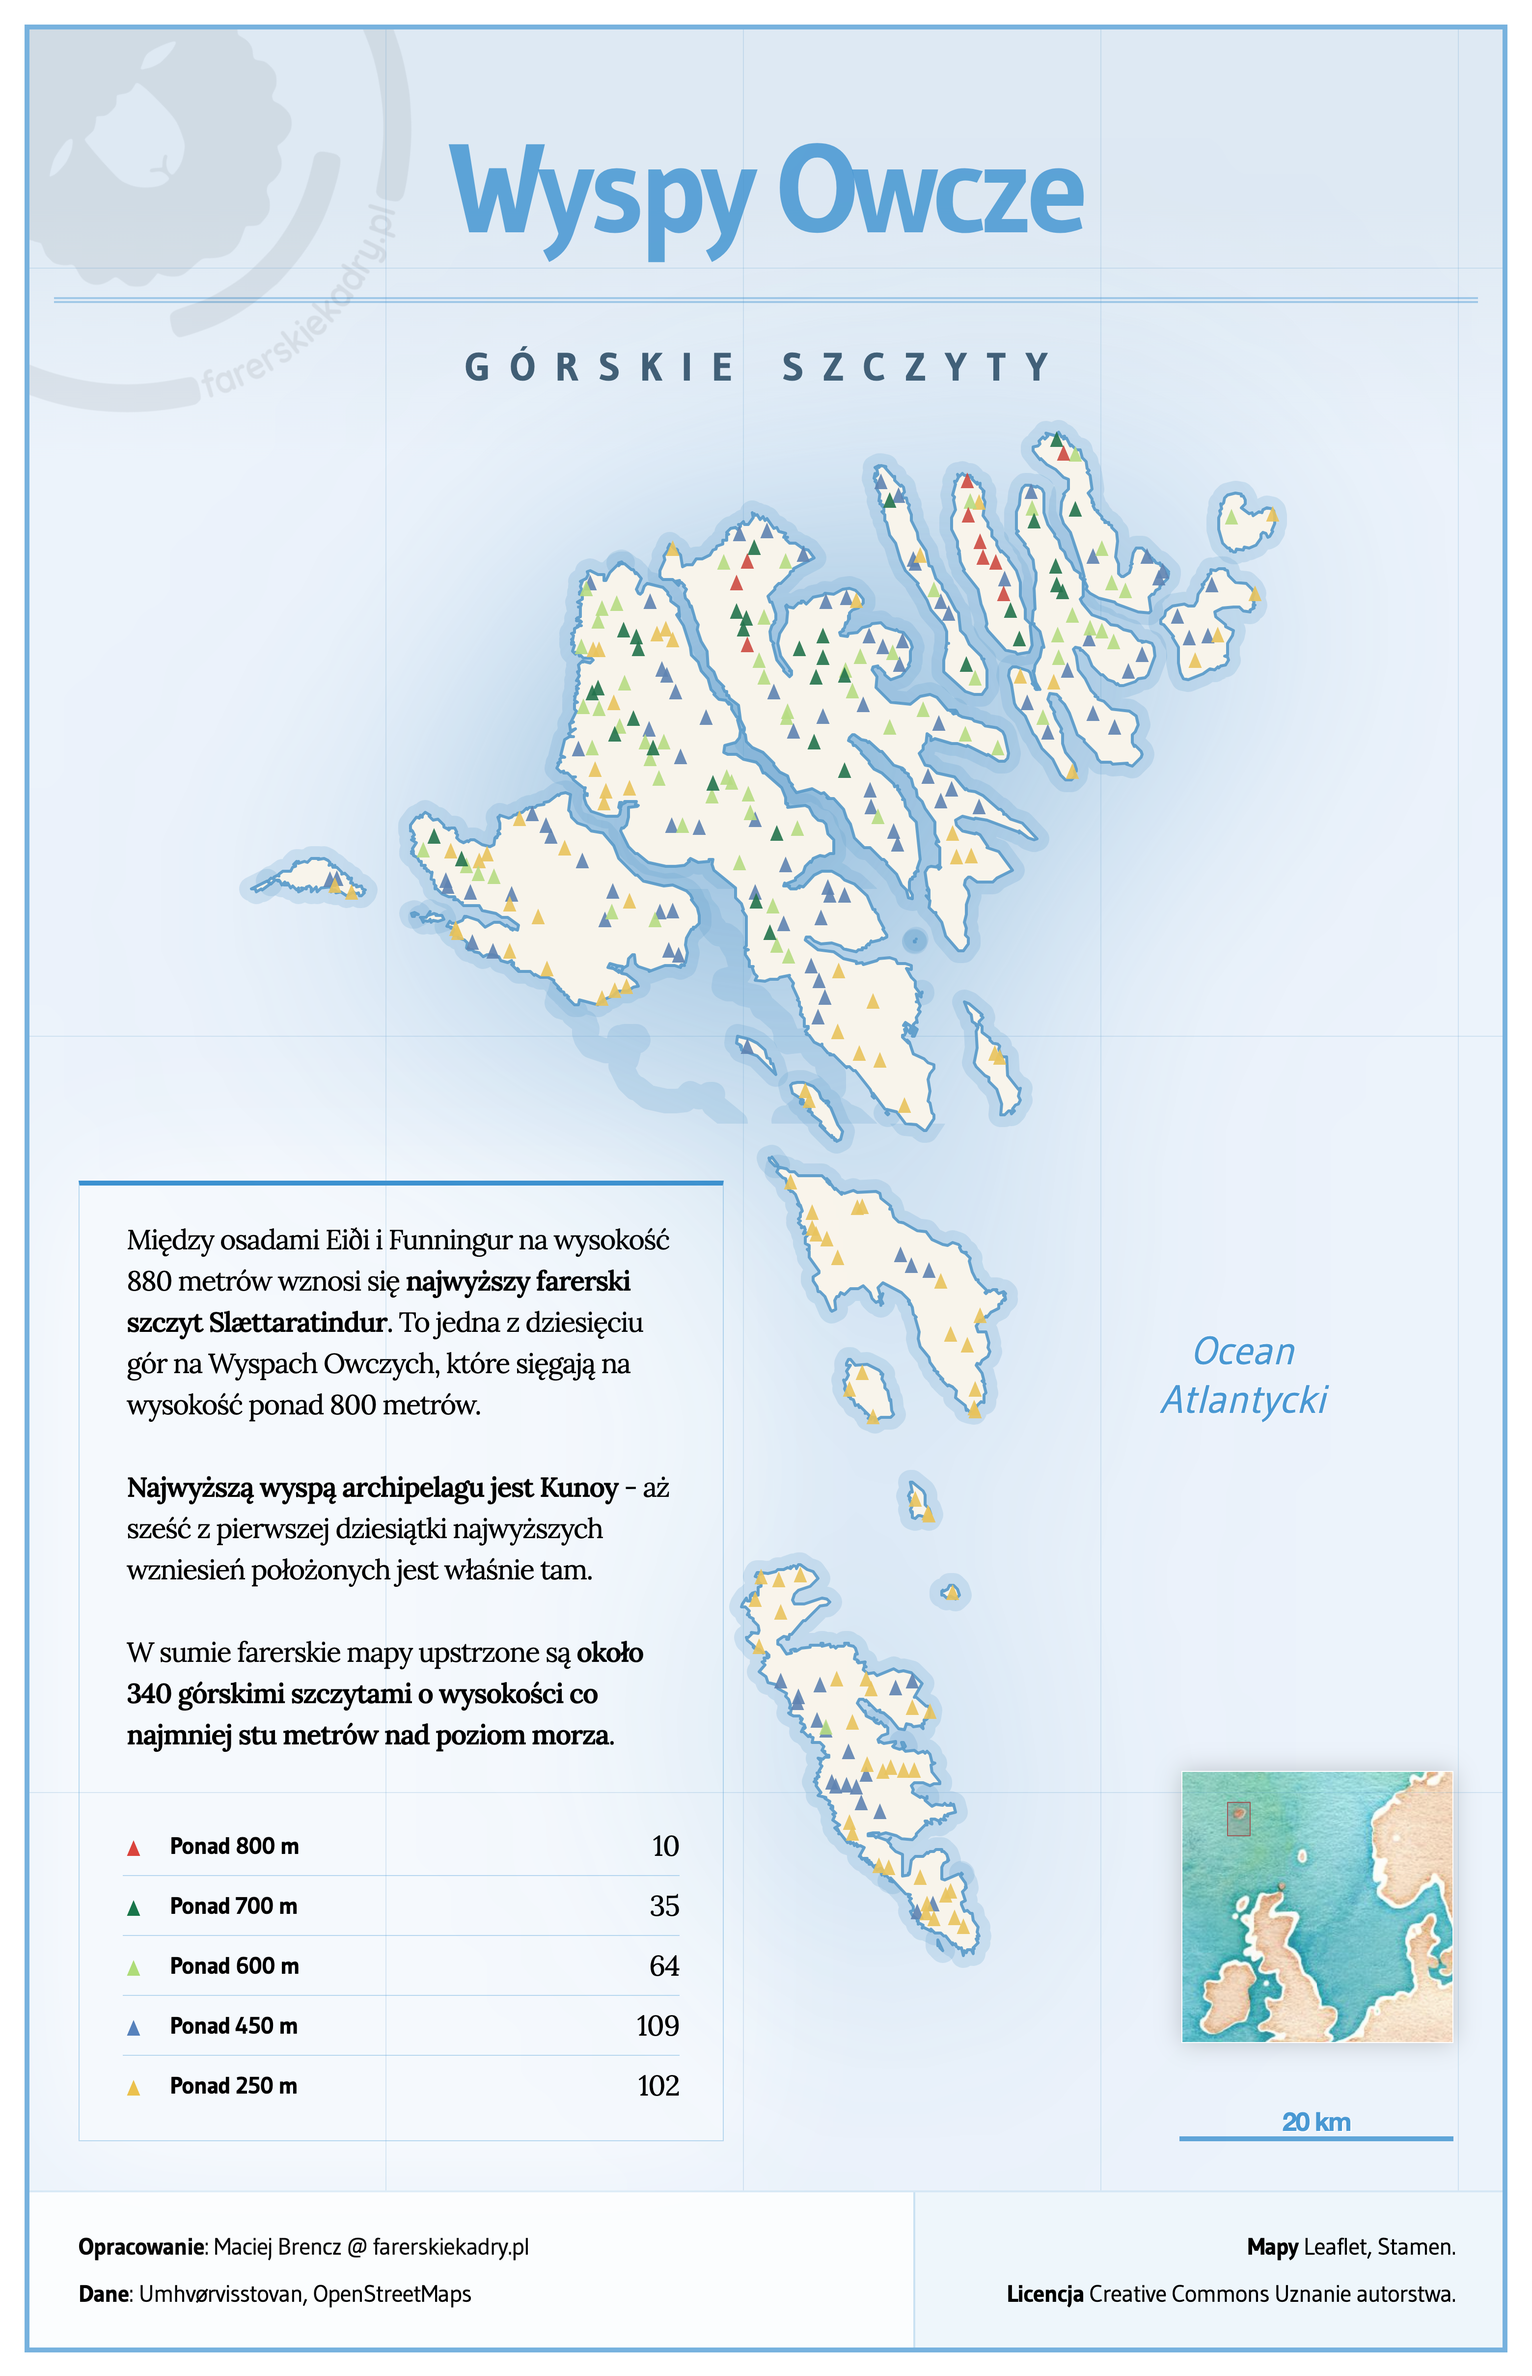
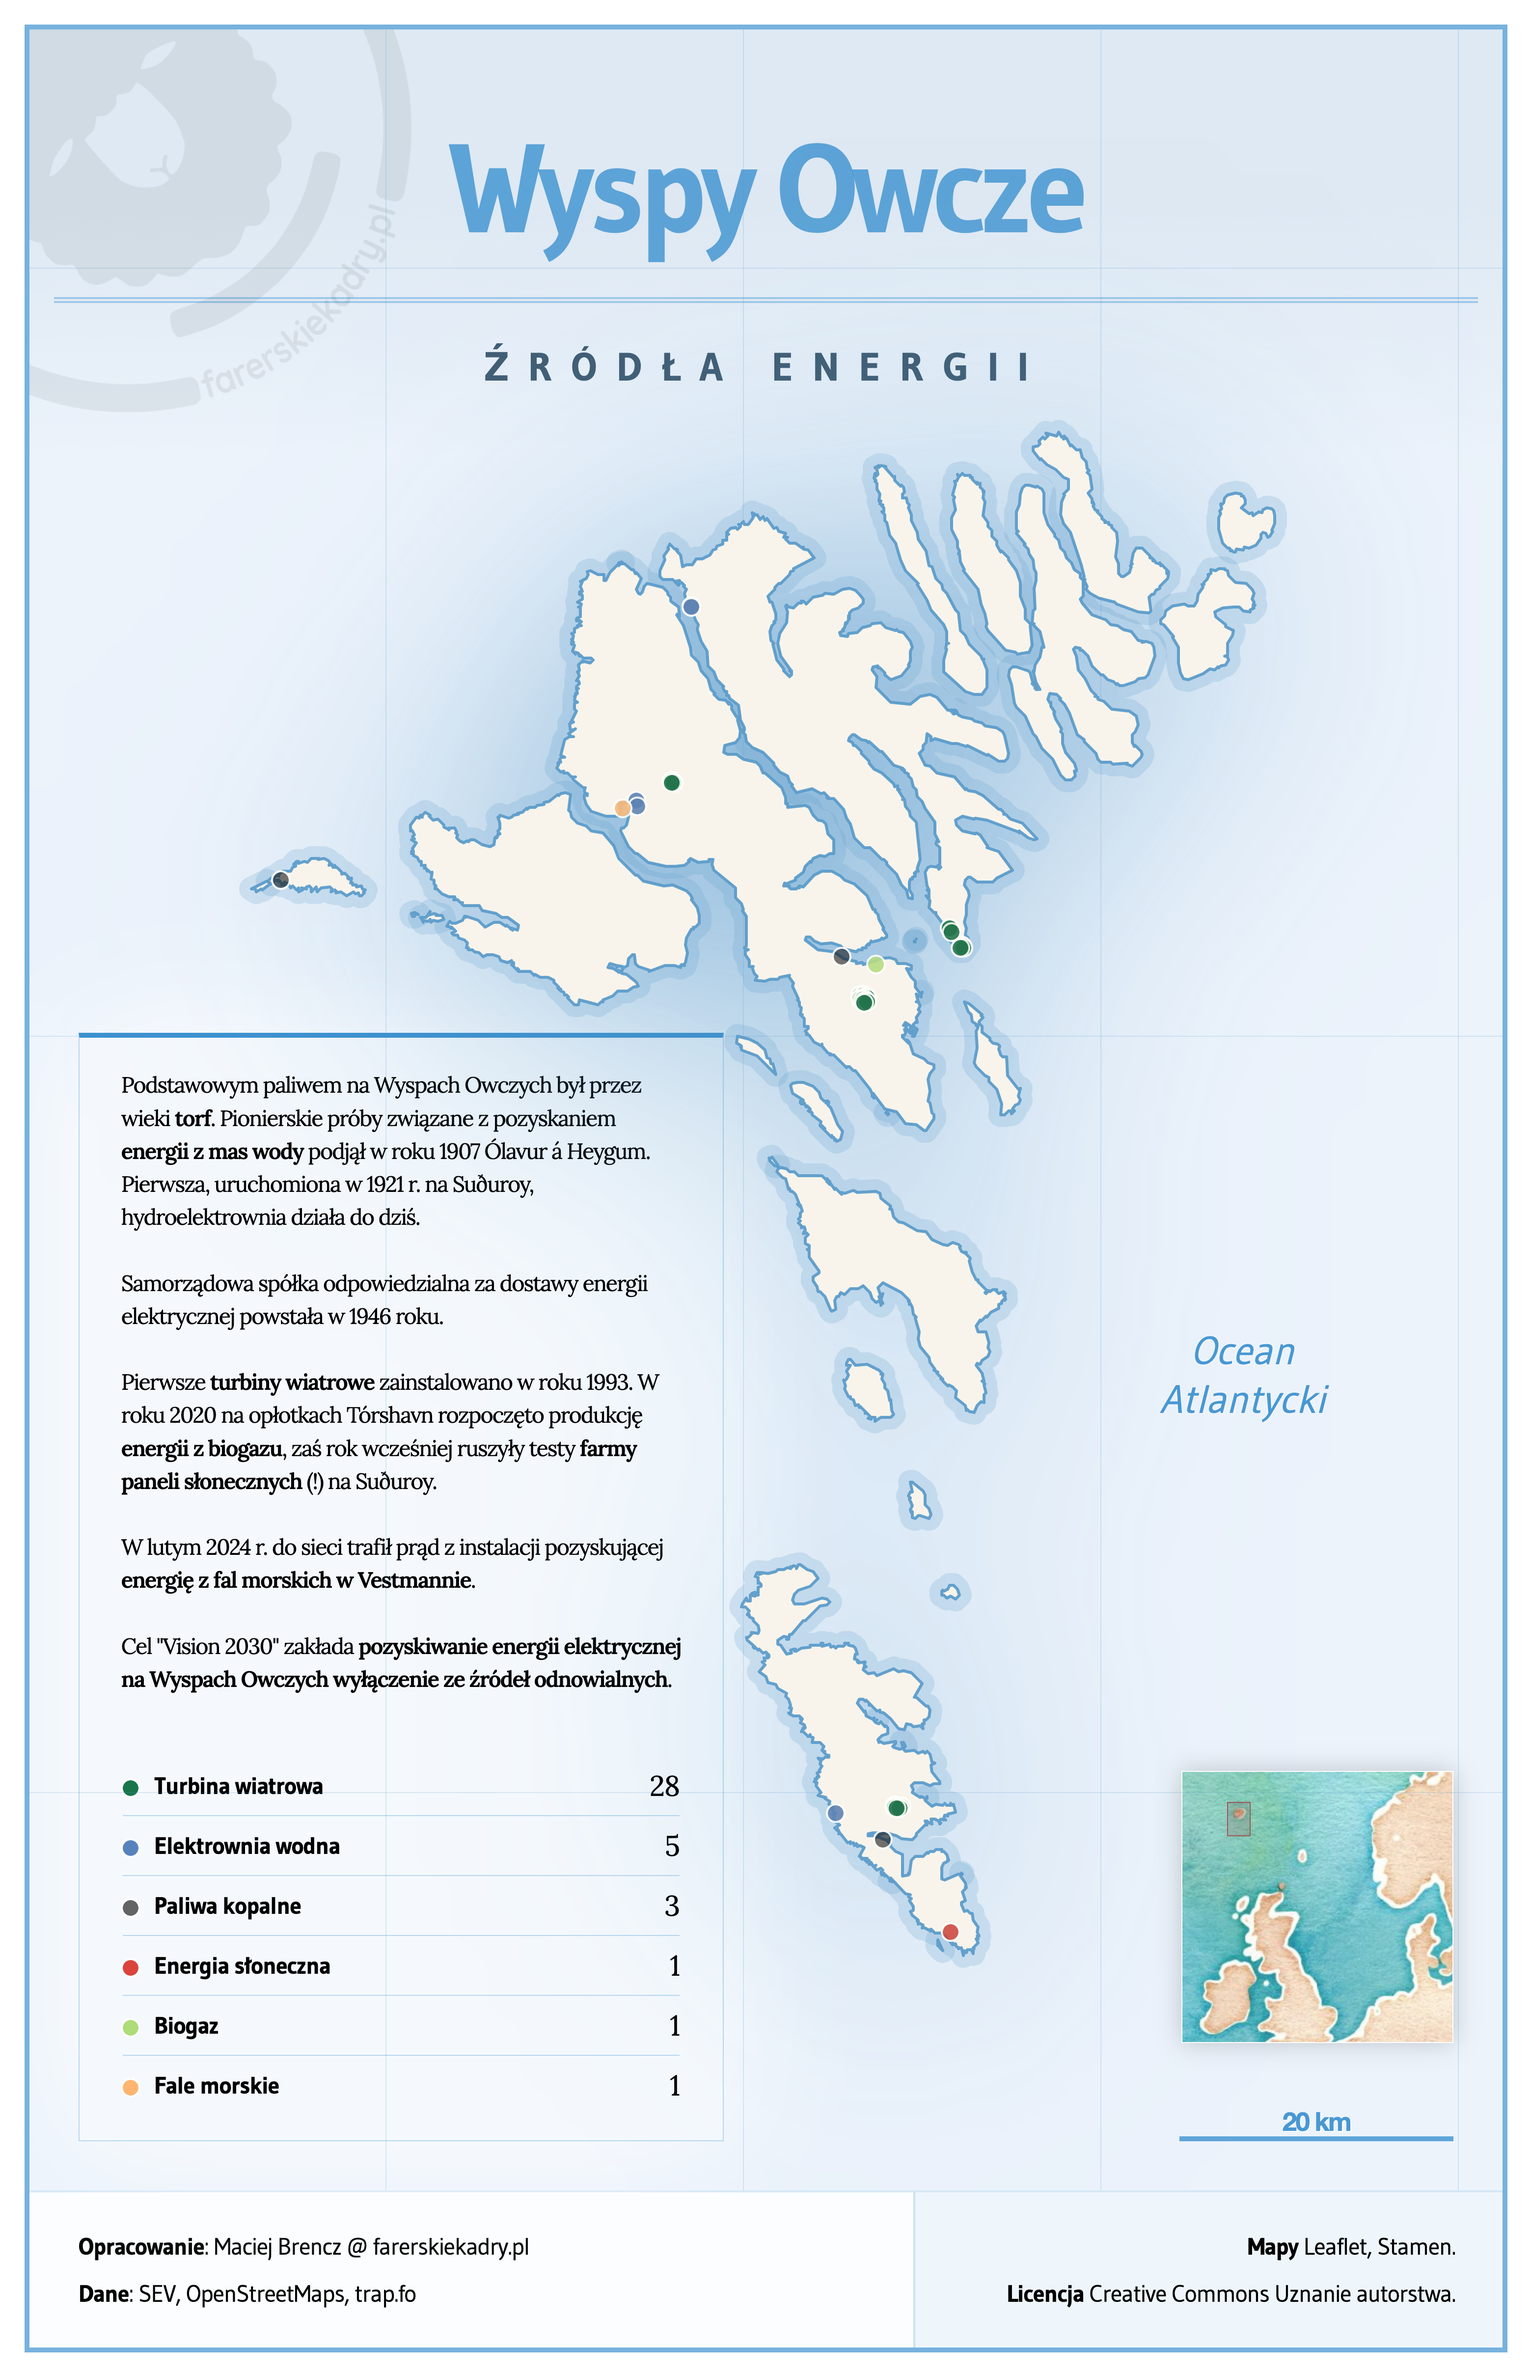
Power source

diff --git a/faroe.html b/faroe.html
@@ -18,30 +18,41 @@
 
 	<link rel="license" href="https://creativecommons.org/licenses/by/4.0/" />
 
-	<body lang="en">
+	<body lang="en" _lang="pl">
 		<div id="wrapper">
 			<section id="overlay">
 				<h1 lang="en">Faroe Islands</h1>
 				<h1 lang="pl">Wyspy Owcze</h1>
 
-				<h2 lang="en">Mountain peaks</h2>
-				<h2 lang="pl">Górskie szczyty</h2>
+				<h2 lang="en">Energy supply</h2>
+				<h2 lang="pl">Źródła energii</h2>
 
 				<legend style="width: 41%">
 					<!-- <img src="https://3.bp.blogspot.com/-d6oBGCensQ8/U2ADslYwc4I/AAAAAAAAIXM/SSR4NbDTxP8/s1600/IMG_0500.jpg"> -->
 					<p lang="en">
-						Between Eiði and Funningur lies <b>the highest Faroese mountain - Slættaratindur (880 m ASL)</b>. It is one of ten mountains on Faroe Islands which rise to over 800 m ASL.
+						Historically, <b>peat has been used for heating</b> and cooking on Faroe Islands.
+						The pioneer Ólavur á Heygum conducted the <b>hydropower experiments</b> in Vestmanna in 1907. The first hydropower plant, commissioned in 1921, <b>remains operational today</b>.
 						<br><br>
-						<b>Kunoy is the most mountainous of all islands</b> - six of the top 10 highest peaks are located there.
+						SEV — jointly owned by the municipalities — was founded in 1946 and is responsible for the electricity supply.
 						<br><br>
-						The list of Faroe Islands mountains consist of <b>around 340 peaks that raise at least 100 m above the sea level</b>.
+						The <b>first wind turbines</b> on the Islands were installed in 1993.
+						The <b>biogas plant</b> FÖRKA outside Tórshavn was put into operation in 2020, and the <b>solar plant trial</b> on Suðuroy started a year earlier..
+						<br><br>
+						In February 2024 <b>tidal powerplant in Vestmanna</b> delivered its first electricity to the national grid.
+						<br><br>
+						Vision 2030 sets the goal for <b>all electricity on Faroese land to come from green energy sources by 2030</b>.
 					</p>
 					<p lang="pl" _style="font-size: 1.6rem">
-						Między osadami Eiði i Funningur na wysokość 880 metrów wznosi się <b>najwyższy farerski szczyt Slættaratindur</b>. To jedna z dziesięciu gór na Wyspach Owczych, które sięgają na wysokość ponad 800 metrów.
+						Podstawowym paliwem na Wyspach Owczych był przez wieki <b>torf</b>. Pionierskie próby związane z pozyskaniem <b>energii z mas wody</b> podjął w roku 1907 Ólavur á Heygum.
+						Pierwsza, uruchomiona w 1921 r. na Suðuroy, hydroelektrownia działa do dziś.
 						<br><br>
-						<b>Najwyższą wyspą archipelagu jest Kunoy</b> - aż sześć z pierwszej dziesiątki najwyższych wzniesień położonych jest właśnie tam.
+						Samorządowa spółka odpowiedzialna za dostawy energii elektrycznej powstała w 1946 roku.
 						<br><br>
-						W sumie farerskie mapy upstrzone są <b>około 340 górskimi szczytami o wysokości co najmniej stu metrów nad poziom morza</b>.
+						Pierwsze <b>turbiny wiatrowe</b> zainstalowano w roku 1993. W roku 2020 na opłotkach Tórshavn rozpoczęto produkcję <b>energii z biogazu</b>, zaś rok wcześniej ruszyły testy <b>farmy paneli słonecznych</b> (!) na Suðuroy.
+						<br><br>
+						W lutym 2024 r. do sieci trafił prąd z instalacji pozyskującej <b>energię z fal morskich w Vestmannie</b>.
+						<br><br>
+						Cel "Vision 2030" zakłada <b>pozyskiwanie energii elektrycznej na Wyspach Owczych wyłączenie ze źródeł odnowialnych</b>.
 					</p>
 					<ul>
 						<!--<li><span class="marker black"></span><span lang="en">major towns</span><span lang="pl">główne miasta</span></li>-->
@@ -79,7 +90,7 @@
 						<strong lang="en">Research</strong><strong lang="pl">Opracowanie</strong>: Maciej Brencz @ farerskiekadry.pl
 					</p>
 					<p>
-						<strong lang="en">Data</strong><strong lang="pl">Dane</strong>: <!-- Landsverk, Umhvørvisstovan, Strandfaraskip Landsins, -->Umhvørvisstovan, OpenStreetMaps
+						<strong lang="en">Data</strong><strong lang="pl">Dane</strong>: <!-- Landsverk, Umhvørvisstovan, Strandfaraskip Landsins, -->SEV, OpenStreetMaps, trap.fo
 					</p>
 				</div>
 
@@ -100,7 +111,7 @@
 		<script>
 		(async() => {			
 			const colors = [
-				'blue', 'yellow', 'green', 'red', 'dark-green',
+				'blue', 'yellow', 'green', 'red', 'dark-green', 'orange'
 			];
 
 			await initMap(async (map) => {
@@ -113,35 +124,25 @@
 				// 	const color = 'green';
             	// 	L.marker([geo[1], geo[0]], {icon: getIcon(color), pane: `markers-${color}`}).addTo(map);
 				// });
-
-				const geojsonFeatures = await fetchGeoJSON('/geojson/osm-natural-peak.json');
 				let counts = [];
 
-				L.geoJSON(geojsonFeatures, {
+				L.geoJSON(await fetchGeoJSON('/geojson/osm-power-plant.json'), {
 					onEachFeature: feature => {
 						const geo = feature.geometry.coordinates;
 
-						// green / blue / yellow / red
-						const ele = parseInt(feature.properties.ele, 10); console.log(feature, ele);
-						let color = '';
+						// duplicated entry on Mykines
+						if (geo[0] == -7.6462321) return;
 
-						if (ele > 800) {
-							color = 'red';
-						}
-						else if (ele > 700) {
-							color = 'dark-green';
-						}
-						else if (ele > 600) {
-							color = 'green';
-						}
-						else if (ele > 450) {
-							color = 'blue';
-						}
-						else if (ele > 250) {
-							color = 'yellow';
-						}
-						else {
-							return;
+						// "plant:source": "biogas",
+						const type = feature.properties['plant:source']; console.log({geo, type});
+						let color = 'black';
+
+						switch(type) {
+							case 'hydro':  color = 'blue';   break;
+							case 'oil':    color = 'black';  break;
+							case 'solar':  color = 'red';    break;
+							case 'biogas': color = 'green';  break;
+							case 'tidal':  color = 'orange'; break;
 						}
 
 						L.marker([geo[1], geo[0]], {icon: getIcon(color), pane: `markers-${color}`}).addTo(map);
@@ -152,11 +153,25 @@
 					}
 				});
 
-				addLabel('red', 'Over 800 m', 'Ponad 800 m', counts['red']);
-				addLabel('dark-green', 'Over 700 m', 'Ponad 700 m', counts['dark-green']);
-				addLabel('green', 'Over 600 m', 'Ponad 600 m', counts['green']);
-				addLabel('blue', 'Over 450 m', 'Ponad 450 m', counts['blue']);
-				addLabel('yellow', 'Over 250 m', 'Ponad 250 m', counts['yellow']);
+				L.geoJSON(await fetchGeoJSON('/geojson/us-Kortal-SEV-4-vindmylla.json'), {
+					onEachFeature: feature => {
+						const geo = feature.geometry.coordinates;
+						const color = 'dark-green';
+
+						L.marker([geo[1], geo[0]], {icon: getIcon(color), pane: `markers-${color}`}).addTo(map);
+
+						// count colors
+						if (!counts[color]) counts[color] = 0;
+						counts[color]++;
+					}
+				});
+
+				addLabel('dark-green', 'Wind turbine', 'Turbina wiatrowa', counts['dark-green']);
+				addLabel('blue', 'Hydropower plant', 'Elektrownia wodna', counts['blue']);
+				addLabel('black', 'Oil plant / diesel generator', 'Paliwa kopalne', counts['black']);
+				addLabel('red', 'Solar plant', 'Energia słoneczna', counts['red']);
+				addLabel('green', 'Biogas plant', 'Biogaz', counts['green']);
+				addLabel('orange', 'Tidal plant', 'Fale morskie', counts['orange']);
 			});
 
 			// console.log(gridsPerCity);
@@ -164,10 +179,14 @@
 		</script>
 
 		<style>
+			legend p {
+				font-size: 2.8em;
+			}
+
 			/**
 			 * Mountains
 			 * @see https://css-tricks.com/snippets/css/css-triangle/
-			 */
+			 *
 			.marker {
 				width: 0; 
 				height: 0; 
@@ -185,7 +204,7 @@
 
 			.marker.green  { border-bottom-color: #a6d96a }
 			.marker.dark-green  { border-bottom-color: #006837 }
-			.marker.blue   { border-bottom-color: #4575b4 } /* https://colorbrewer2.org/#type=diverging&scheme=RdYlBu&n=10 */
+			.marker.blue   { border-bottom-color: #4575b4 } /* https://colorbrewer2.org/#type=diverging&scheme=RdYlBu&n=10 
 			.marker.yellow { border-bottom-color: #e9bb3a }
 			.marker.red    { border-bottom-color: #d73027 }
 
